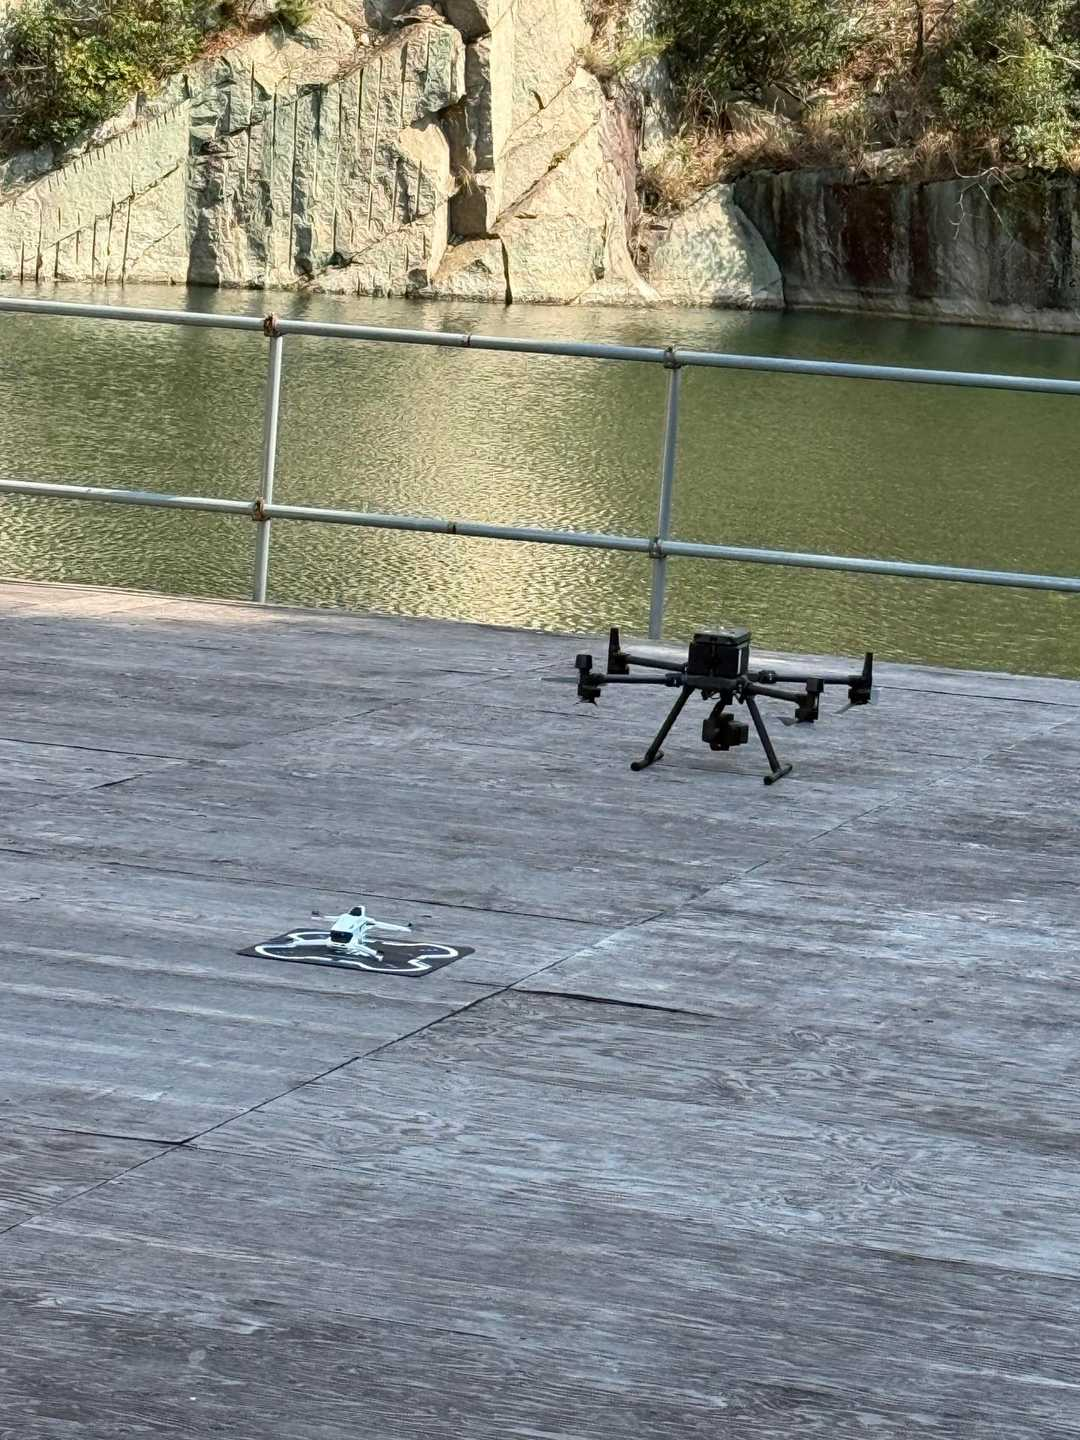
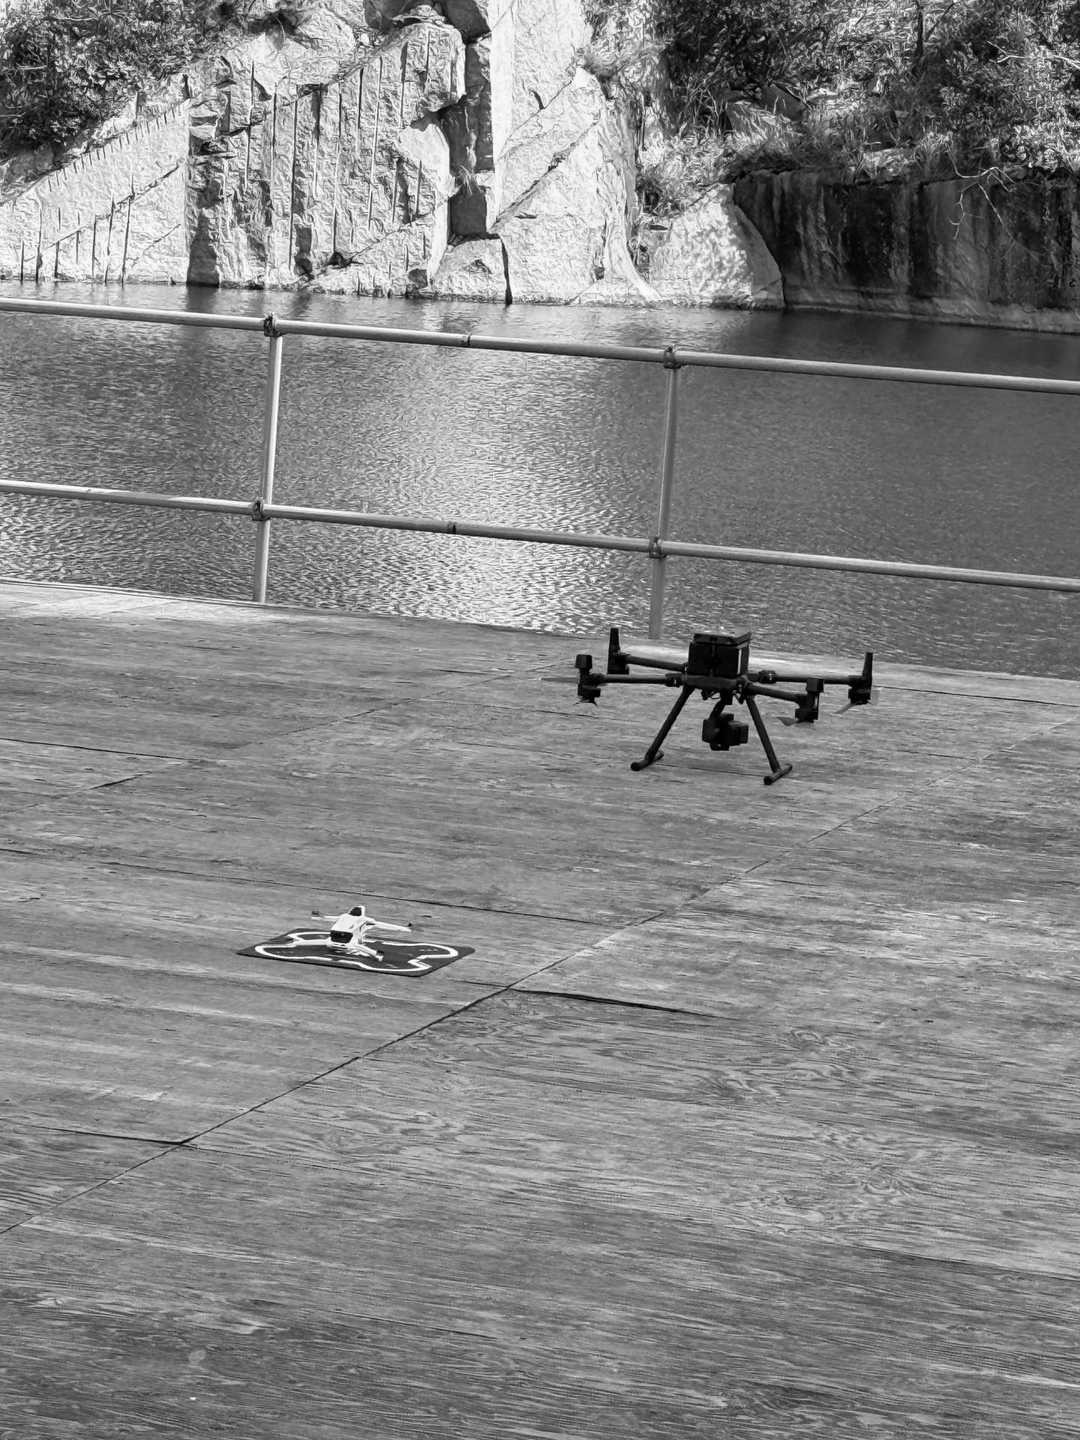
docs: 図1キャプション修正、図2/9をフル幅化、ほぼ全図をグレースケール化
編集者の「なるべくモノクロ」というオーダーに合わせた調整:

1. 図1 のキャプションから読点を削除
   「桂林の岩壁と、湖上に設えられた木製ステージ」
   → 「桂林の岩壁と湖上に設えられた木製ステージ」

2. 図2（位置図）と図9（三スケール比較）をフル幅 inline 中央寄せに
   - 位置関係や全体像の把握が重要なので 140mm 幅で大きく表示
   - 回り込みではなく上下配置として、横全体を使う
   - FULLWIDTH_FIGURES セットで管理、render() で分岐

3. 図1・図9 以外を全てグレースケール化
   - 既にグレースケール: 図2, 図4, 図8 (matplotlib 内で黒色化済)
   - 新たにグレースケール化: 図3 (桂林岩壁写真), 図5 (ドローン離陸),
     図6 (上空からの丁場群), 図7 (NDWI 4パネル)
   - figures script の最後に _convert_remaining_to_grayscale() で
     一括処理。COLOR_KEEP_FIGURES = ("fig01", "fig09") のみカラー維持。

なお、図7（NDWI/MNDWI/NDVI/最終マスクの4パネル）はグレースケール化により
パネル間の差異が見分けにくくなる可能性があり、後で衛星画像処理を行ったことが
分かりやすい1枚絵への差し替えを検討する余地あり。

diff --git a/scripts/build_chiri_koryu_docx.py b/scripts/build_chiri_koryu_docx.py
@@ -239,9 +239,42 @@ def add_image_grid(doc, image_blocks: list[dict], *, width_mm: float = 65.0) -> 
     _set_no_borders(tbl_pr)
 
 
+def add_image_inline_full(doc, image_path: Path, caption: str,
+                          width_mm: float = 140.0) -> None:
+    """画像を中央寄せの inline 配置で大きく表示する（フル幅用）。
+
+    位置関係を正確に把握する必要がある図（位置図、三スケール比較等）に使用。
+    本文の回り込みは発生せず、図と次の段落は上下に配置される。
+    """
+    p_img = doc.add_paragraph()
+    p_img.alignment = WD_ALIGN_PARAGRAPH.CENTER
+    pf = p_img.paragraph_format
+    pf.space_before = Pt(6)
+    pf.space_after = Pt(2)
+    run = p_img.add_run()
+    run.add_picture(str(image_path), width=Mm(width_mm))
+
+    p_cap = doc.add_paragraph()
+    p_cap.alignment = WD_ALIGN_PARAGRAPH.CENTER
+    cf = p_cap.paragraph_format
+    cf.space_before = Pt(0)
+    cf.space_after = Pt(8)
+    cap_run = p_cap.add_run(caption)
+    set_run_font(cap_run, FONT_REGULAR, 9.0)
+
+
 def add_image(doc, image_path: Path, caption: str) -> None:
     """単独画像を回り込みフロートで配置（後方互換のため残す）。"""
     add_image_floating(doc, image_path, caption, side="right", width_mm=70.0)
+
+
+# 横幅いっぱいで表示する図（位置関係や全体把握が重要なもの）
+FULLWIDTH_FIGURES = {"fig02_location_map.png", "fig09_multiscale.png"}
+
+
+def _is_fullwidth(blk: dict) -> bool:
+    """そのブロックがフル幅 inline 表示にすべき画像か判定する。"""
+    return Path(blk["path"]).name in FULLWIDTH_FIGURES
 
 
 def clear_body_keep_sectPr(doc) -> None:
@@ -374,8 +407,14 @@ def render(blocks: list[dict], doc) -> None:
             if len(group) == 1:
                 img_path = ARTICLE_DIR / group[0]["path"]
                 if img_path.exists():
-                    add_image_floating(doc, img_path, group[0]["caption"],
-                                       side="right", width_mm=70.0)
+                    if _is_fullwidth(group[0]):
+                        # フル幅 inline 配置（位置図・三スケール比較）
+                        add_image_inline_full(doc, img_path, group[0]["caption"],
+                                              width_mm=140.0)
+                    else:
+                        # 通常は右寄せ float
+                        add_image_floating(doc, img_path, group[0]["caption"],
+                                           side="right", width_mm=70.0)
                 else:
                     add_paragraph(doc, f"[画像が見つかりません: {group[0]['path']}]",
                                   font=FONT_REGULAR, size_pt=9.0)

diff --git a/scripts/build_chiri_koryu_figures.py b/scripts/build_chiri_koryu_figures.py
@@ -320,12 +320,47 @@ def make_fig09_multiscale() -> None:
     print(f"saved: {out} ({composite.size})")
 
 
+COLOR_KEEP_FIGURES = ("fig01", "fig09")  # この接頭辞のファイルだけカラー維持
+"""カラーで残す図の prefix。それ以外はグレースケール化される。
+
+理由: 編集者からの「なるべくモノクロにして欲しい」というオーダーに対応。
+- 図1: 冒頭の桂林の景観を強くインパクトで見せたいためカラー維持
+- 図9: 三スケール比較の視認性を保つためカラー維持
+"""
+
+
+def _convert_remaining_to_grayscale() -> None:
+    """カラー維持指定以外のすべての写真・画像をグレースケールに変換する。
+
+    matplotlib で生成した地図系（fig02, fig04, fig08）は既にグレースケールだが、
+    写真系（fig03, fig05, fig06）と exp002 由来の解析図（fig07）はカラーなので、
+    ここで PIL で grayscale 変換して上書きする。
+    """
+    for path in sorted(FIGURES.iterdir()):
+        if not path.is_file():
+            continue
+        if any(path.name.startswith(k) for k in COLOR_KEEP_FIGURES):
+            continue
+        if path.suffix.lower() not in {".png", ".jpg", ".jpeg"}:
+            continue
+        img = Image.open(path)
+        if img.mode == "L":
+            continue  # 既にグレースケール
+        gray = img.convert("L")
+        if path.suffix.lower() == ".png":
+            gray.save(path, "PNG", optimize=True)
+        else:
+            gray.save(path, "JPEG", quality=92, optimize=True)
+        print(f"grayscaled: {path.name}")
+
+
 def main() -> None:
     FIGURES.mkdir(parents=True, exist_ok=True)
     make_fig02_location()
     make_fig04_walking_route()
     make_fig08_water_distribution()
     make_fig09_multiscale()
+    _convert_remaining_to_grayscale()
     print("All figures generated.")
 
 

diff --git a/docs/articles/2026_chiri-koryu-10/draft.md b/docs/articles/2026_chiri-koryu-10/draft.md
@@ -10,7 +10,7 @@
 
 岩壁が、垂直に立っている。表面はツルツルで、よく切れる包丁で羊羹をスパッと切ったような断面だ。底には濃い緑色の水面。覗き込んでも底が見えない。ここは岡山県笠岡諸島・北木島の旧丁場跡、通称「北木の桂林」である。山歩きが趣味なので、こういう壁を見るとつい登るルートを目で追ってしまうのだが、よく見るとそもそもこの壁は自然のものではない。人が石を切り出した跡地である。
 
-![図1 桂林の岩壁と、湖上に設えられた木製ステージ](figures/fig01_lake_stage.jpg)
+![図1 桂林の岩壁と湖上に設えられた木製ステージ](figures/fig01_lake_stage.jpg)
 
 北木島の存在は、訪問の少し前にX（旧Twitter）で偶然見かけた告知で知った。「北木島ドローン・マッピングパーティ 2026」（2026年3月20-21日）と題された一泊二日のイベントの告知である。OpenStreetMap（以下OSM）の地図に島内の地物を反映させていく作業と、ドローンによる景観確認とを二日にわたって行うワークショップだった。告知の写真に写っていた岩壁が、整いすぎていて見たことのない景観だった。これは実物を見ねばと思い、単独で島まで足を運んだ次第である。
 
